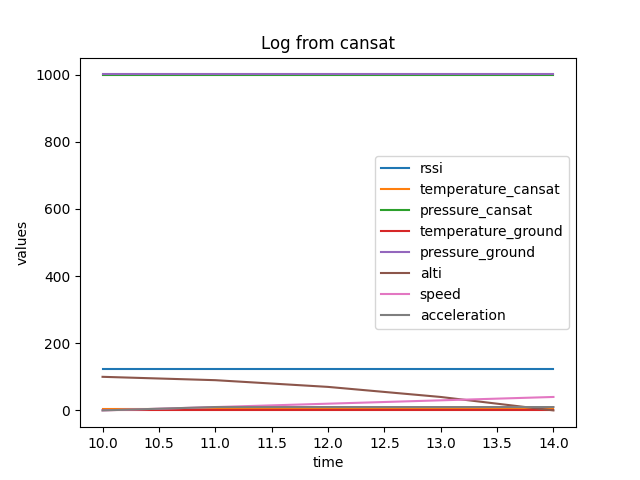
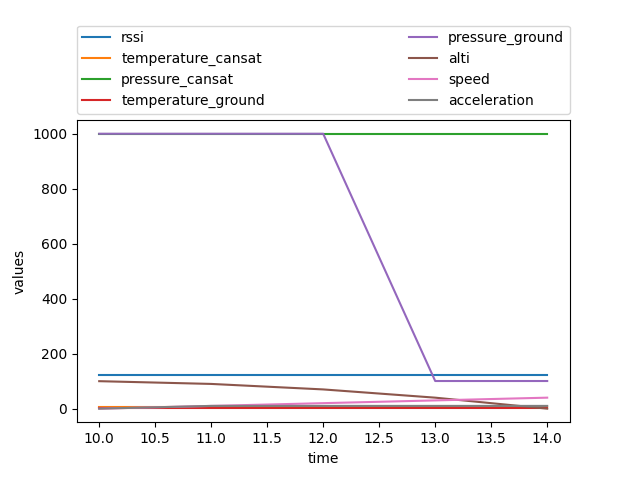
Upgraded legend

diff --git a/main_plotting_script.py b/main_plotting_script.py
@@ -58,6 +58,12 @@ def load_data_from_sd (filename):
 
 def gen_chart(df):
 
+    #fig, ax = plt.subplots()
+
+    fig = plt.figure()
+
+    ax = fig.add_axes([0.12, 0.12, 0.77, 0.63])
+
     for column in df.columns.values.tolist():
 
         if column != 'time':
@@ -66,15 +72,19 @@ def gen_chart(df):
 
             y = df['time'].values
 
-            plt.plot(y, x, label = column)
+            ax.plot(y, x, label = column)
 
             print(x, y)
 
-    plt.title('Log from cansat')
-    plt.xlabel('time')
-    plt.ylabel('values')
+    ax.set(xlabel = 'time')
+    ax.set(ylabel = 'values')
 
-    plt.legend()
+    
+    ax.legend(bbox_to_anchor=(0., 1.02, 1., .102), loc='lower left', ncol = 2, mode = 'expand', borderaxespad=0.)
+
+    # Update the plot
+    plt.show()
+
     plt.savefig('test.png')
 
 
